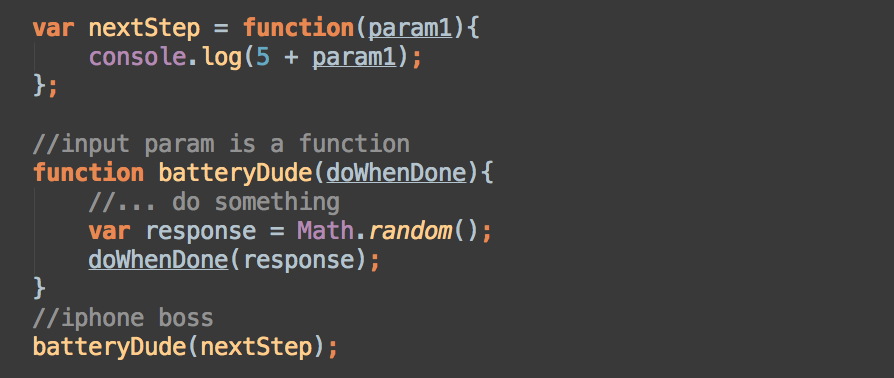
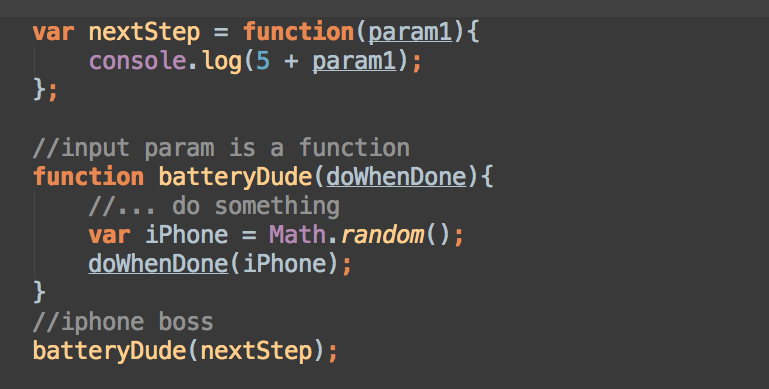
Creating slides.

diff --git a/src/main/webapp/slides/2014.html b/src/main/webapp/slides/2014.html
@@ -146,10 +146,13 @@
 	-->
 	<h2><img src="images/ajax.png" alt="ajax">Callbacks - AJAX</h2>
 	<section>
-		<ul class="list-inline text-right col-md-1">
-			<li><a class="btn btn-primary" onclick="buttonClick2()">Call me back</a></li>
+		<ul class="col-md-2" style="font-size: 0.7em; list-style: none">
+			<li><a class="btn btn-primary" onclick="foxconn()">Call me back</a></li>
+            <li><div id="callback21"></div> </li>
+            <li><div id="callback22"></div> </li>
+            <li><div id="callback23"></div> </li>
 		</ul>
-		<div class="col-md-10">
+		<div class="col-md-9">
 			<!-- <div data-height="450" data-theme-id="9061" data-slug-hash="DFBkp" data-default-tab="js" data-user="nilsynils" class='codepen'>
 				<pre>
 					<code>
@@ -194,9 +197,9 @@
 	-->
 	<h2><img src="images/ajax.png" alt="ajax">AJAX</h2>
 	<div class="col-md-3">
-		<div id="ajaxDiv">Some Static data</div>
 		<a class="btn btn-primary" onclick="loadXMLDoc('ajaxDiv')">Call me back</a>
-	</div>
+        <div id="ajaxDiv"></div>
+    </div>
 	<div class="col-md-9">
 		<div class="figure">
 			<img class="img_width" src="images/ajaxOldSchool.png"/>
@@ -655,17 +658,17 @@
 
 	// Callbacks
 
-//	var nextStep = function(param1){
-//		console.log(5 + param1);
-//	};
-//
-//	//input param is a function
+	var nextStep = function(param1){
+		console.log(5 + param1);
+	};
+
+	//input param is a function
 //	function batteryDude(doWhenDone){
 //		//... do something
-//		var response = Math.random();
-//        doWhenDone(response);
+//		var iPhone = Math.random();
+//        doWhenDone(iPhone);
 //	}
-//    //iphone boss
+    //iphone boss
 //    batteryDude(nextStep);
 
 
@@ -674,21 +677,24 @@
 
 
 	var callMeAfter = function(data){
-		console.log(data);
+//		console.log(data);
+        consoleLogAdd('callback23', data);
 	};
 
-	function simulateAJAX(runWhenDone){
+	function batteryDude(runWhenDone){
 		//... do something that creates delay (AJAX-esk)
 		setTimeout(function(){
-			var response = Math.random();
-			runWhenDone(response);
+			var iPhone = Math.random();
+			runWhenDone(iPhone);
 		}, 3000);
 	}
 
-	function buttonClick2() {
-		console.log('start');
-		simulateAJAX(callMeAfter);
-		console.log('No Blocking!!');
+	function foxconn() {
+//		console.log('Start');
+        consoleLogAdd('callback21', 'Start');
+        batteryDude(callMeAfter);
+        consoleLogAdd('callback22', 'No Blocking!!');
+//        console.log('No Blocking!!');
 	}
 
 
@@ -732,24 +738,24 @@
 		});
 	};
 
-	function batteryDude(){
-		var iphone = assembleBattery();
-		return {
-			then: function(nextStep) {
-				if (nextStep) {
-                    nextStep(iphone);
-				}
-			}
-		};
-	}
-
-	function foxconn() {
-		var promise = batteryDude();
-
-		promise.then(function(res){
-			console.log(res);
-		});
-	}
+//	function batteryDude(){
+//		var iphone = assembleBattery();
+//		return {
+//			then: function(nextStep) {
+//				if (nextStep) {
+//                    nextStep(iphone);
+//				}
+//			}
+//		};
+//	}
+//
+//	function foxconn() {
+//		var promise = batteryDude();
+//
+//		promise.then(function(res){
+//			console.log(res);
+//		});
+//	}
 
 </script>
 
